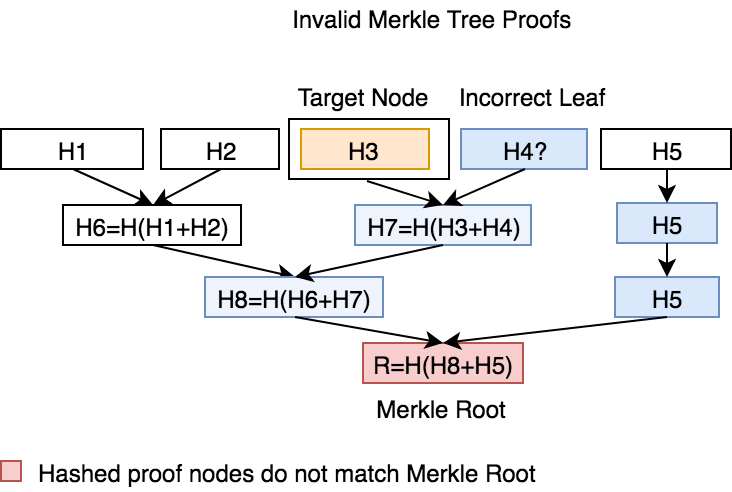
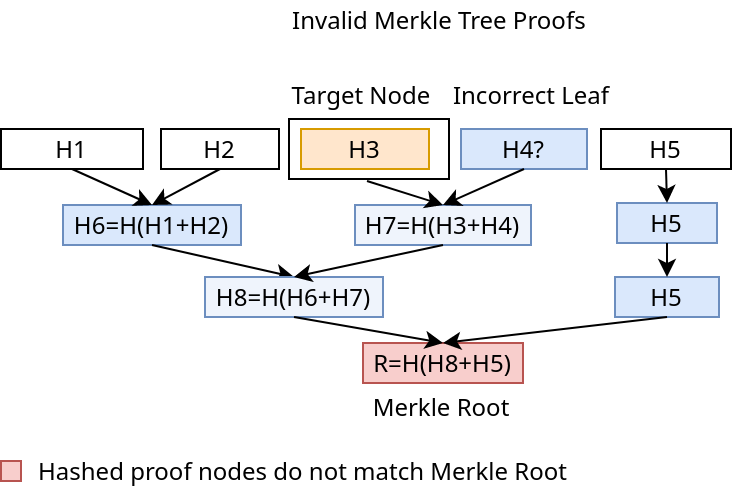
Update diagrams, closes #40

diff --git a/README.md b/README.md
@@ -99,11 +99,11 @@ Output:
 
 ▾ Visualization of Merkle Tree Proof
 
-<img src="https://user-images.githubusercontent.com/168240/43616387-27ec860a-9671-11e8-9f3f-0b871a6581a6.png" alt="Merkle Tree Proof" width="420">
+<img src="https://user-images.githubusercontent.com/168240/204968384-dbd16f5b-415c-4cc6-b993-5bbd7599ec8b.png" alt="Merkle Tree Proof" width="420">
 
 ▾ Visualization of Invalid Merkle Tree Proofs
 
-<img src="https://user-images.githubusercontent.com/168240/43616398-33e20584-9671-11e8-9f62-9f48ce412898.png" alt="Merkle Tree Proof" width="420">
+<img src="https://user-images.githubusercontent.com/168240/204968414-fefedb52-d27f-4b14-bf70-e3f96a50b6a3.png" alt="Merkle Tree Proof" width="420">
 
 ▾ Visualization of Bitcoin Merkle Tree
 
